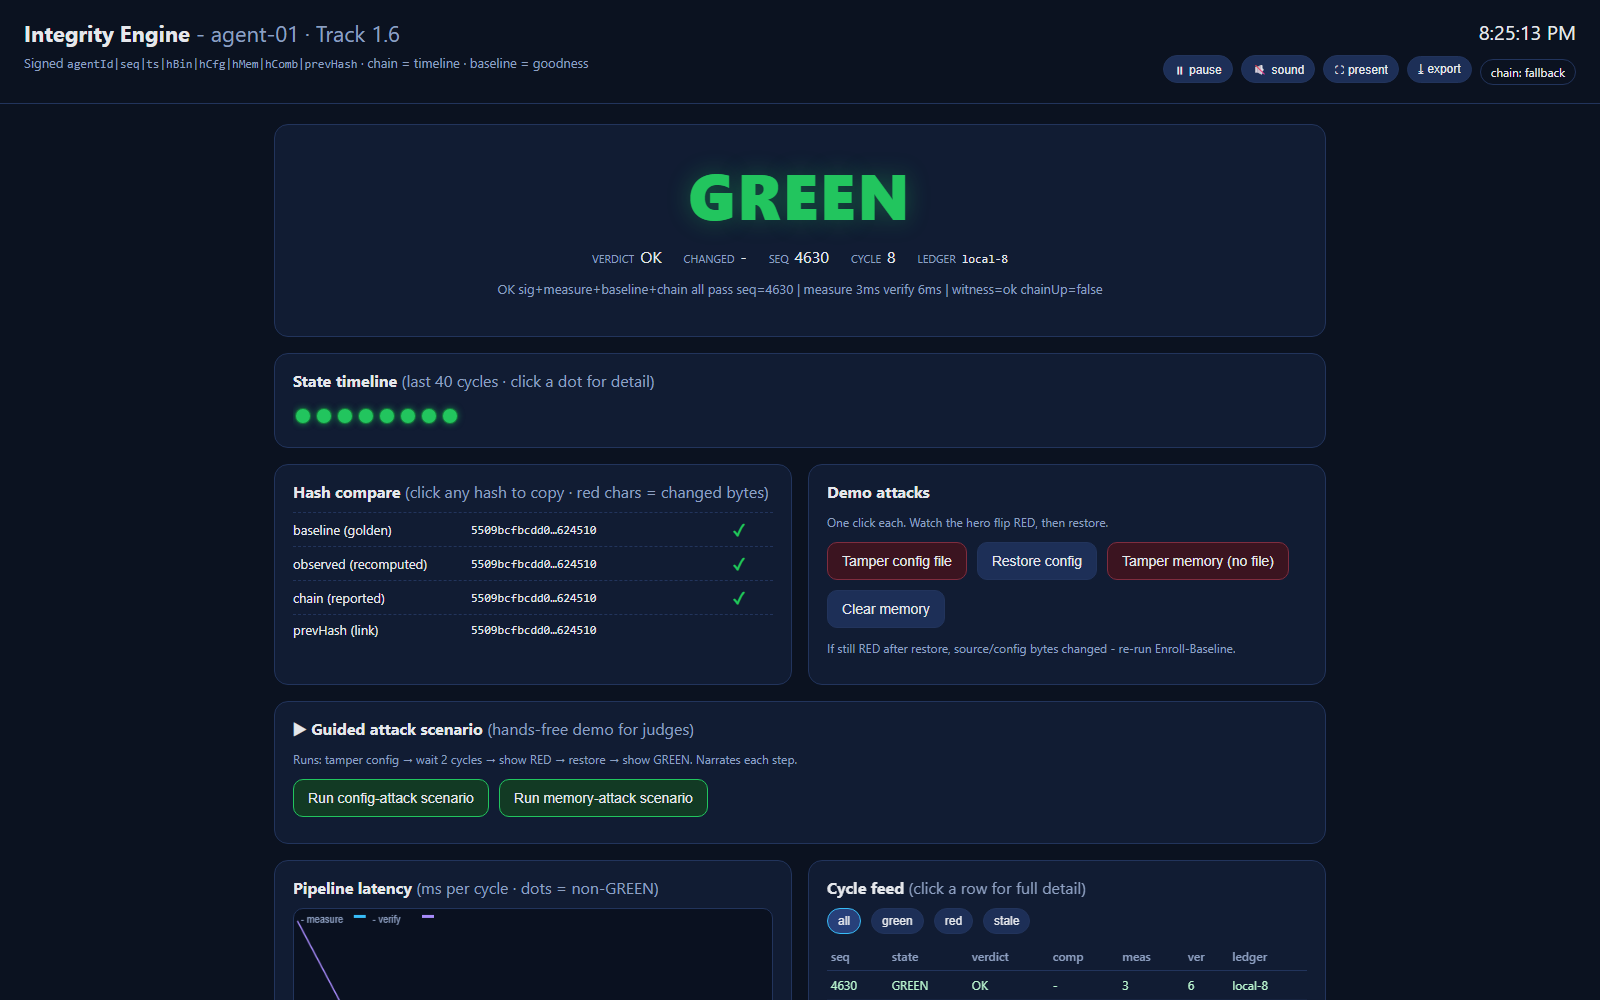
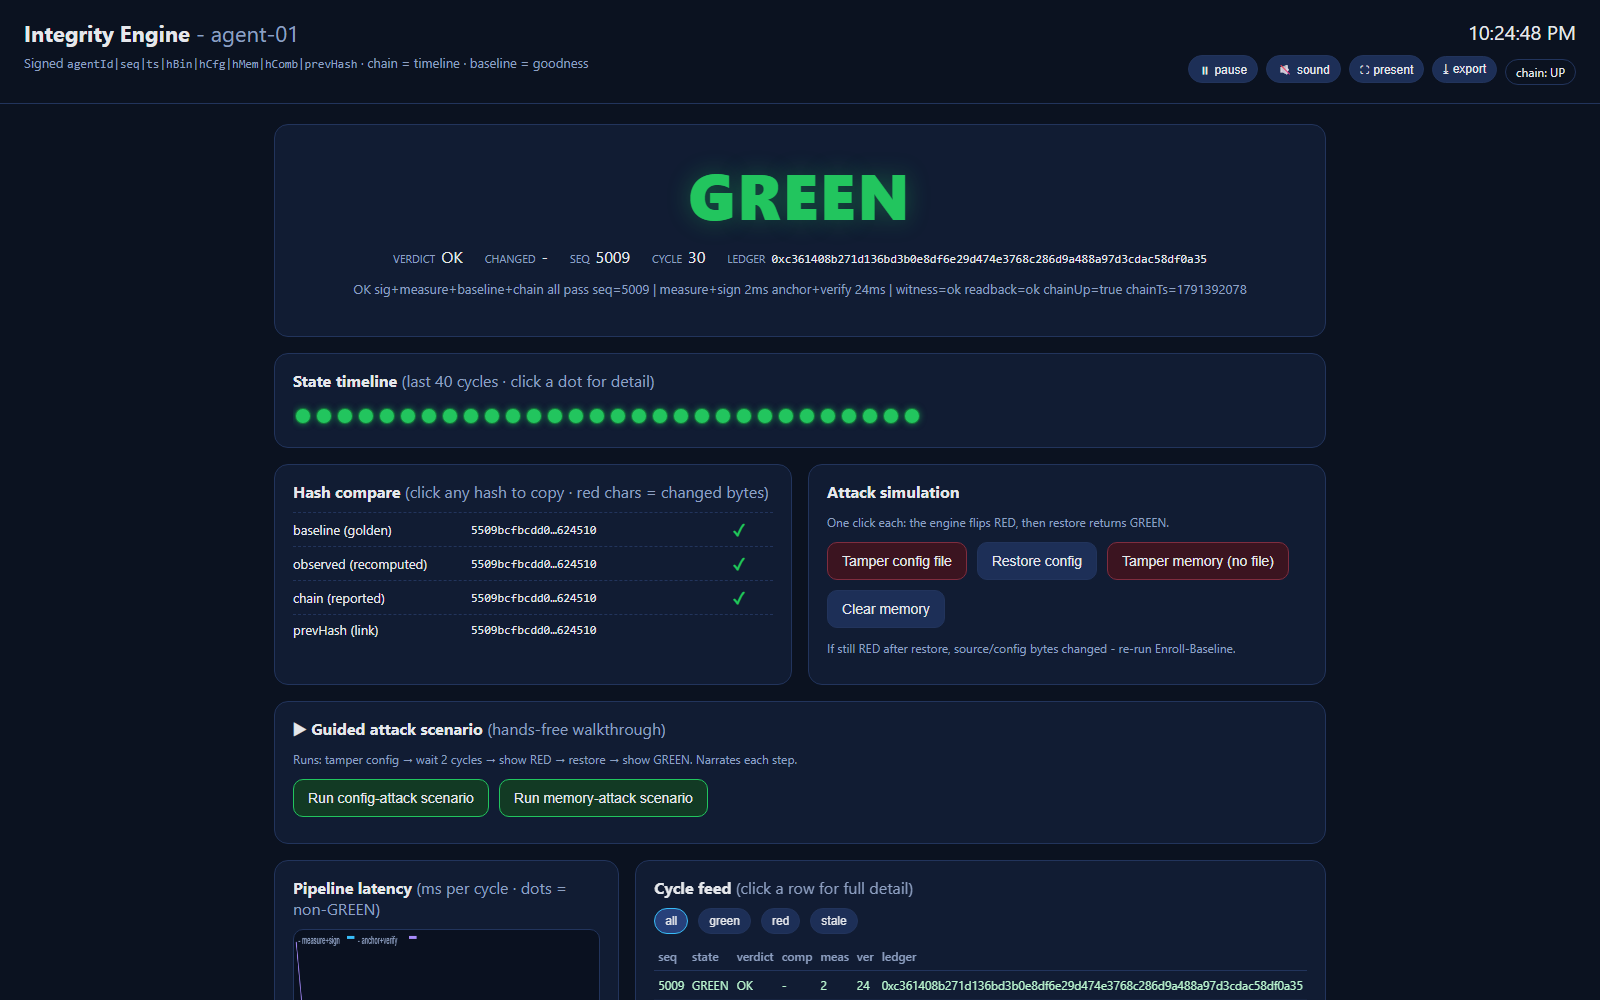
docs strip competition framing, production positioning - delete PITCH, retake screenshots

diff --git a/web/index.html b/web/index.html
@@ -9,7 +9,7 @@
 <body>
 <header class="top">
   <div>
-    <h1>Integrity Engine <span class="dim">- agent-01 · Track 1.6</span></h1>
+    <h1>Integrity Engine <span class="dim">- agent-01</span></h1>
     <p class="sub">Signed <code>agentId|seq|ts|hBin|hCfg|hMem|hComb|prevHash</code> · chain = timeline · baseline = goodness</p>
   </div>
   <div class="top-right">
@@ -52,8 +52,8 @@
       <p class="hint" id="copyMsg"></p>
     </div>
     <div class="card">
-      <h2>Demo attacks</h2>
-      <p class="hint">One click each. Watch the hero flip RED, then restore.</p>
+      <h2>Attack simulation</h2>
+      <p class="hint">One click each: the engine flips RED, then restore returns GREEN.</p>
       <div class="btns">
         <button id="bTamperCfg" class="danger">Tamper config file</button>
         <button id="bRestoreCfg">Restore config</button>
@@ -66,7 +66,7 @@
   </section>
 
   <section class="card scenario">
-    <h2>▶ Guided attack scenario <span class="dim">(hands-free demo for judges)</span></h2>
+    <h2>▶ Guided attack scenario <span class="dim">(hands-free walkthrough)</span></h2>
     <p class="hint">Runs: tamper config → wait 2 cycles → show RED → restore → show GREEN. Narrates each step.</p>
     <div class="btns">
       <button id="bScenario" class="primary">Run config-attack scenario</button>
@@ -131,7 +131,7 @@
   </section>
 
   <footer>
-    <p>Open limits, stated first: Checker can lie without TPM/TEE · Boss re-read is demo-only (remote has signed measurement only) · memory = whitelisted map · <code>ledger.jsonl</code> is fallback, chain event log authoritative.</p>
+    <p>Open limits, stated first: Checker can lie without TPM/TEE · Boss re-read is single-host only (remote uses the signed measurement only) · memory = whitelisted map · <code>ledger.jsonl</code> is fallback, chain event log authoritative.</p>
   </footer>
 </main>
 <script src="/app.js"></script>

diff --git a/java/src/integrity/verify/Verifier.java b/java/src/integrity/verify/Verifier.java
@@ -13,7 +13,7 @@ import java.util.HashMap;
 import java.util.Map;
 
 /**
- * Judge-proof verifier on frozen contract.
+ * Independent verifier on frozen contract.
  * Loads full golden baseline (hBin/hCfg/hMem/hComb) once, immutable.
  * Boss independently re-measures, then:
  *  0 key on disk == key pinned at enrollment (catches key-swap attacks)
@@ -100,7 +100,7 @@ public final class Verifier {
                 pinned, pinContract, pinChainId);
     }
 
-    /** Full check. re = Boss independent measurement (demo only - remote has signed measurement only), m = reported. */
+    /** Full check. re = Boss independent measurement (single-host only - remote has signed measurement only), m = reported. */
     public Verdict check(Measurer.Measurement re, SignedMeasurement m) throws Exception {
         return check(re, m, m.ts(), false, null);
     }
@@ -152,7 +152,7 @@ public final class Verifier {
             return new Verdict(Reason.PREV_HASH_BREAK, expectedPrev, m.prevHash(), "genesis prev must be baseline hComb or zeros");
 
         // The report is authentic, fresh, monotonic and linked: it enters the
-        // chain NOW. Verdicts below judge state, not linkage, so a mid-cycle
+        // chain NOW. Verdicts below evaluate state, not linkage, so a mid-cycle
         // change (MEASURE_MISMATCH_*) or sustained tamper stays itself instead
         // of flipping every later cycle into PREV_HASH_BREAK. Matches Main's
         // per-cycle cursor advance and the contract's prevHash linkage rule.

diff --git a/java/src/integrity/Main.java b/java/src/integrity/Main.java
@@ -24,7 +24,7 @@ import java.security.KeyPair;
  * Item 5: 1s watchdog flips dashboard to STALE even with zero requests.
  * Item 14: seq persisted in config/seq.dat.
  * Item 3: keys in keys/ (outside writable config/), see KeyStore.
- * Item 12: Boss re-read is "independent recompute, demo only" - remote has signed measurement only.
+ * Item 12: Boss re-read is "independent recompute, single-host only" - remote has signed measurement only.
  */
 public final class Main {
     static final long INTERVAL_MS = 5000;
@@ -43,7 +43,7 @@ public final class Main {
         Verifier.Baseline baseline = Verifier.loadBaseline(base);
         System.out.println("BASELINE hComb=" + baseline.hComb());
         if (baseline.publicKey().isEmpty())
-            System.out.println("KEY PIN: not pinned (demo mode, fresh-clone friendly). Run Enroller to pin the boss-trusted key and catch key swaps as KEY_MISMATCH.");
+            System.out.println("KEY PIN: not pinned (fresh-clone friendly). Run Enroller to pin the boss-trusted key and catch key swaps as KEY_MISMATCH.");
         else
             System.out.println("KEY PIN: pinned " + baseline.publicKey().substring(0, Math.min(16, baseline.publicKey().length())) + "... (key swap -> KEY_MISMATCH)");
         if (baseline.chainContract().isEmpty())

diff --git a/java/src/integrity/batch/BatchBench.java b/java/src/integrity/batch/BatchBench.java
@@ -5,7 +5,7 @@ import java.security.MessageDigest;
 import java.util.*;
 
 /**
- * Benchmark for pitch: builds 10k-leaf tree, proves + verifies one leaf.
+ * Benchmark for the batch path: builds 10k-leaf tree, proves + verifies one leaf.
  * Run: java -cp out integrity.batch.BatchBench
  * Math printed: naive TPS vs batched TPS + build/verify ms.
  */

diff --git a/README.md b/README.md
@@ -42,7 +42,7 @@
 
 ## What is This?
 
-**Decentralized Runtime Integrity Engine** is a verifiable integrity framework for remote agents, built for Technorazz 2026, Track 1.6.
+**Decentralized Runtime Integrity Engine** is a verifiable integrity framework for remote agents: on-chain anchored tamper detection with golden-baseline verification.
 
 Remote agents (AI bots, edge workers, enterprise daemons) run where you can't see them. An attacker with file access can patch the binary, edit `config.json`, or flip an in-memory limit. We don't prevent the edit - we **prove it within one 5s interval plus ~4ms pipeline average (~24ms worst, measured over 20 trials), and flag STALE if no fresh anchor arrives after 12s.**
 
@@ -72,7 +72,7 @@ flowchart LR
   end
 
   subgraph BOSS["Boss / Verifier (trusted)"]
-    RE["re-measure (demo)"] --> V["Verifier - 6 checks<br/>comb / seal / link /<br/>recompute / baseline / freshness"]
+    RE["re-measure (single host)"] --> V["Verifier - 6 checks<br/>comb / seal / link /<br/>recompute / baseline / freshness"]
     BASE[("baseline.json<br/>golden, enrolled Phase 0")] --> V
   end
 
@@ -153,7 +153,7 @@ stateDiagram-v2
 | Memory flip via endpoint | RED POLICY_MEM_CHANGED comp=memory |
 | Lying Checker (anchor old) | RED MEASURE_MISMATCH_* comp=that component |
 | Replay / reorder | RED STALE_REPLAY (seq/ts/prevHash) |
-| Heartbeat stalled (locked/hung files) | RED CYCLE_ERR, then STALE after 12s via 1s watchdog. Demo: `scripts/demo-stale.ps1` |
+| Heartbeat stalled (locked/hung files) | RED CYCLE_ERR, then STALE after 12s via 1s watchdog. Script: `scripts/demo-stale.ps1` |
 | Kill the engine process | Page honestly shows "engine unreachable" (no stale green light) |
 | Swap in a new key pair | RED KEY_MISMATCH comp=key (when baseline is pinned via Enroller) |
 | Chain stores a different record than submitted | RED CHAIN_MISMATCH comp=chain (`getLatest` readback after each anchor) |
@@ -167,13 +167,13 @@ stateDiagram-v2
 * **Deterministic Memory Hashing** - no RAM dumps (too noisy). Only `mode, limit, version` serialized via sorted `TreeMap` to `k=v;k=v` canonical form, then hashed. Same state always gives the same hash, no false positives.
 * **Golden Baseline Enrollment** - Phase 0 runs once in a clean room. `Enroller.java` captures `hBin/hCfg/hMem/hComb` into `config/baseline.json`, the Boss's trusted store, never overwritten from chain. Legit upgrades need a re-enrollment. It also pins the boss-trusted key and, when `config/chain.json` exists, the contract address + chain id.
 * **Wax-Seal Signatures (frozen)** - payload `agentId|seq|ts|hBin|hCfg|hMem|hComb|prevHash`, Ed25519 via `java.security` (no libs). All three component hashes covered, so the Boss can blame binary vs config vs memory. `hComb = SHA256(raw32||raw32||raw32)` (raw bytes, never hex-concat). `seq` + `prevHash` stop replay and forks.
-* **Real On-Chain Anchoring (chain authoritative, file fallback)** - a real `anchor()` tx every cycle when `config/chain.json` + node are up (`ledgerRef` = tx hash, `block.timestamp` authoritative). The baseline can pin contract + chainId at enrollment; mismatch refuses chain mode (ledger fallback). `ledger.jsonl` is always appended so the demo survives node death. History lives in `Anchored` events. Ed25519 verified off-chain (EVM has none).
+* **Real On-Chain Anchoring (chain authoritative, file fallback)** - a real `anchor()` tx every cycle when `config/chain.json` + node are up (`ledgerRef` = tx hash, `block.timestamp` authoritative). The baseline can pin contract + chainId at enrollment; mismatch refuses chain mode (ledger fallback). `ledger.jsonl` is always appended so the engine survives node death. History lives in `Anchored` events. Ed25519 verified off-chain (EVM has none).
 * **6-Check Verifier with per-component blame** - GREEN only if: `hComb == SHA256(raws)`, full seal valid, `prevHash` chains, `H_re == reported` per component (catches a lying Checker), `reported == baseline` per component (catches edits), and `ts` fresh + `seq` monotonic. RED names the reason and the component.
 * **Key Pinning + Witness Audit** - enrollment pins the agent public key into `baseline.json` (a swapped key pair fails as `KEY_MISMATCH`); every verdict is counter-signed by a separate boss key into hash-chained `witness.jsonl`. A stolen agent key can forge agent signatures, but not the witness trail.
 * **Live Dashboard** - JDK `HttpServer` on `:8080`, zero deps: big status light, timeline, donut, attack buttons, hash diff view, and the witness audit panel (live chain verification, entry count, head hash, last entry). Auto-refreshes every 2s.
-* **Live Tamper Demo** - config edit flips `POLICY_CFG_CHANGED` next cycle; the memory endpoint flips `POLICY_MEM_CHANGED` with no file edit; restore returns GREEN with no restart. Easiest path: the dashboard's Tamper/Restore buttons.
+* **Live Tamper Detection** - config edit flips `POLICY_CFG_CHANGED` next cycle; the memory endpoint flips `POLICY_MEM_CHANGED` with no file edit; restore returns GREEN with no restart. Easiest path: the dashboard's Tamper/Restore buttons.
 * **Stale / Replay Guard** - rejects timestamps older than 12s (chain `block.timestamp` when up) and reused/rewound `seq`; `seq` persisted in `config/seq.dat` so restarts don't self-flag. A stalled heartbeat shows `CYCLE_ERR` with the cause first, then `STALE` after 12s (watchdog wins, no flicker).
-* **Zero External Java Deps** - pure JDK 17+ (tested on 24). `javac` + `java` is enough: no Maven, Gradle, Spring, or web3j download. Perfect for hackathon wifi.
+* **Zero External Java Deps** - pure JDK 17+ (tested on 24). `javac` + `java` is enough: no Maven, Gradle, Spring, or web3j download. Build and run fully offline.
 * **Scale: Merkle Batching** - collect a window of `hComb`, anchor one root/min, keep per-device proofs. 10k-leaf root in ~93ms. See `docs/SCALING.md`.
 * **Measured Performance** - 20 trials: pipeline avg 4ms (measure 0.6, sign 1.6, verify 2.0), worst 24ms. Detection = next 5s interval + pipeline. See `docs/BENCHMARKS.md`.
 
@@ -225,7 +225,7 @@ stateDiagram-v2
 │   └── baseline.json           # golden baseline, Boss trusted store
 ├── web/                        # dashboard UI (app.js / index.html / styles.css)
 ├── scripts/                    # run.ps1, demo-tamper.ps1, demo-stale.ps1, redeploy.ps1
-├── docs/                       # PITCH, BENCHMARKS, THREAT_MODEL, SCALING, ...
+├── docs/                       # BENCHMARKS, THREAT_MODEL, SCALING, ...
 └── README.md
 ```
 
@@ -253,7 +253,7 @@ java -cp out integrity.Main
 
 Open <http://localhost:8080> - you should see GREEN flowing with cycle + tx.
 
-### 3. Optional: real chain anchoring (recommended for judges)
+### 3. Optional: real chain anchoring (recommended)
 
 ```bash
 cd contract
@@ -265,13 +265,13 @@ npm run deploy        # writes ../config/chain.json (rpcUrl, contractAddr, from,
 
 Restart the engine after deploy - it enrolls once on-chain (`anchorCount==0`), then every heartbeat is a real `anchor()` tx (`chainUp=true`, `ledgerRef` = tx hash). If the chain is down, the engine still runs with `chainUp=false` + `ledger.jsonl`.
 
-### 4. Tamper Live (the demo)
+### 4. Tamper Live
 
 1. Open `config/agent-config.json`, change `"threshold": 100` to `999`, save.
 2. Next cycle flips RED: `POLICY_CFG_CHANGED comp=config` (sustained). Restore to `100` and GREEN returns next cycle. Memory variant: `/tamper/memory?limit=999` -> `POLICY_MEM_CHANGED` with no file edit.
 3. Byte-safety: prefer the dashboard's Tamper/Restore buttons (they never touch line endings). Stuck RED after a manual save? `git checkout -- config/agent-config.json` restores byte-identical bytes -> GREEN next cycle.
 
-Show judges `baseline.json` on screen before step 1 - that proves what good is.
+Keep `baseline.json` in view before step 1 - it is the golden definition of good.
 
 ### Re-baseline (only when you intentionally changed source/config)
 
@@ -362,18 +362,18 @@ The engine proves tampering when the agent is honest or when we can re-measure, 
 
 What the software layer does close: key swaps (`KEY_MISMATCH`, enforced by the public key pinned into `baseline.json` at enrollment) and forgeable history (boss-signed, hash-chained `witness.jsonl` that a stolen agent key cannot rewrite).
 
-A compromised Checker can sign false hashes with a stolen key; TPM/TEE is the path to closing that. In split deployments, keep the witness key on the Boss host only. This single-box demo keeps both keys on the same machine.
+A compromised Checker can sign false hashes with a stolen key; TPM/TEE is the path to closing that. In split deployments, keep the witness key on the Boss host only. This single-box deployment keeps both keys on the same machine.
 
-### Demo simplifications
+### Simplifications
 
-* **Boss file re-read** works because the demo runs on a single machine; a remote verifier would use only the signed measurement, baseline, and chain.
+* **Boss file re-read** works because this runs on a single machine; a remote verifier would use only the signed measurement, baseline, and chain.
 * **Memory hashing** covers `AgentState{mode,limit,version}` (a whitelist), not the full heap, which never stabilizes across runs.
 * **`ledger.jsonl`** is a tamper-evident fallback; the chain event log is authoritative.
 
-### Stack and demo scope
+### Stack and scope
 
 * **JDK-only** (`javac`/`java`, no Maven/Spring/Gradle/Javalin/web3j wrapper required).
-* **Binary tamper** is secondary on Windows (locked JAR / classes directory); the config edit and memory endpoint are the live attack demos.
+* **Binary tamper** is secondary on Windows (locked JAR / classes directory); the config edit and memory endpoint are the live attack paths.
 * **File reads** retry for 200ms; a missing file counts as tamper.
 
 ### Stretch goals
@@ -384,7 +384,7 @@ Split the Checker and Boss onto separate hosts, hold keys in a TPM/HSM, keep the
 
 ## Contributing
 
-Logical commits only, one feature = one commit. No amend, no force-push. Never commit `keys/*.pkcs8`, `keys/*.x509`, or real `*.key` files - demo keys generate once into ignored `keys/`. CI must pass before merge (see [Testing & CI](#testing--ci)).
+Logical commits only, one feature = one commit. No amend, no force-push. Never commit `keys/*.pkcs8`, `keys/*.x509`, or real `*.key` files - test keys generate once into ignored `keys/`. CI must pass before merge (see [Testing & CI](#testing--ci)).
 
 ```bash
 git checkout -b feat/amazing-check
@@ -402,7 +402,7 @@ Distributed under the **MIT License**.
 
 ## Acknowledgements
 
-**Hardhat** for the local chain + deploy tooling, the **Java JDK** (`MessageDigest`, `Ed25519`, `HttpClient`, `HttpServer`) for a zero-dep MVP, and the **Technorazz team** for the Track 1.6 problem statement.
+**Hardhat** for the local chain + deploy tooling and the **Java JDK** (`MessageDigest`, `Ed25519`, `HttpClient`, `HttpServer`) for a zero-dependency build.
 
 ---
 

diff --git a/docs/THREAT_MODEL.md b/docs/THREAT_MODEL.md
@@ -1,4 +1,4 @@
-# Threat Model - Stated Openly (say it before judges do)
+# Threat Model - Stated Openly
 
 ## What we assume (and admit)
 1. **Item 11 - Compromised Checker can sign lies.** Checker runs on the same box as Worker
@@ -8,9 +8,9 @@
    (a *replacement* key pair fails as `KEY_MISMATCH` instead of self-verifying), and every
    verdict is counter-signed into hash-chained `witness.jsonl` by a separate boss key, so a
    stolen agent key cannot rewrite the audit trail. A live stolen key still wins; hardware needed.
-2. **Item 12 - Boss re-read is demo only.** One-laptop demo lets Boss independently re-read files.
-   Real remote verifier has the signed measurement + baseline + chain only. Labeled
-   "independent recompute, demo only" in code and dashboard.
+2. **Item 12 - Boss re-read is single-host only.** A single-machine deployment lets the Boss
+   independently re-read files. A real remote verifier has the signed measurement + baseline +
+   chain only. Labeled "independent recompute, single-host only" in code and dashboard.
 3. **Item 13 - "Memory" = whitelisted map.** `AgentState{mode,limit,version}` hashed via sorted
    TreeMap, NOT full heap (GC/counters/ASLR never stabilize). Memory attack simulated via
    `/tamper/memory?limit=999` endpoint + file-config attack. Stated in README + UI.
@@ -18,7 +18,7 @@
    perms where available; Windows ACL note. Assumption documented in `KeyStore.java`.
 5. **Item 10 - File ledger is fallback, tamper-evident not tamper-proof.** `ledger.jsonl` can be
    rewritten with recomputed hashes. Verifier memory `headHash()` + `prevHash` linkage catches
-   rewrites within a run; across restarts it is a demo fallback. Chain event log is authoritative.
+   rewrites within a run; across restarts it is only a local fallback. Chain event log is authoritative.
    Labeled FALLBACK in dashboard + docs.
 
 ## What attacker CAN / CANNOT do

diff --git a/docs/SCALING.md b/docs/SCALING.md
@@ -6,14 +6,15 @@ Anchoring every 5s per device on-chain does not scale.
 
 ## Fix: batch (implemented)
 Collect all devices' `hComb` for a window, build one Merkle tree, anchor **only the root once per minute**.
-Each device keeps its Merkle proof (`BatchCollector.proofs()`). Cost drops 120,000x, any single
+Each device receives its Merkle proof for that window (`BatchCollector.proofs()`). Cost drops 120,000x, any single
 measurement still provable via `MerkleTree.verify(leaf, proof, index, root)`.
 
+- Leaf model: one leaf = raw32(hComb), one leaf per device per window; a device's proof stays valid until the next root replaces it.
 - Leaf = raw32(hComb). Parent = SHA256(leftRaw||rightRaw). Odd duplicated. Hex lowercase.
-- Single-device demo keeps 5s heartbeat as today; batch path runs alongside for scale story.
+- Single-device mode keeps the 5s heartbeat as today; batch path runs alongside for fleet scale.
 - 12-cycle window (60s @5s): root + 12 proofs, 1 tx/min.
 - 10k-device window: root in 93ms, proof 44ms, verify ~0ms, proofLen 14.
 
 ## Numbers
 naive 2000 TPS vs batched 0.0167 TPS = **120,000x reduction**.
-Pitch: "Per-device heartbeat for demo, Merkle root per minute for fleet."
+Model: per-device heartbeat for a single agent, Merkle root per minute for a fleet.

diff --git a/docs/BENCHMARKS.md b/docs/BENCHMARKS.md
@@ -15,7 +15,8 @@ PIPELINE avg=4ms worst=24ms
 ```
 - Typical detection after file edit: **next cycle, ~5.0s + ~4ms**.
 - Worst observed: **5024ms** (5s interval + 24ms pipeline).
-- STALE (heartbeat stalled, e.g. locked/hung files): watchdog 1s tick, dashboard STALE after **12s** with no fresh anchor. Demo: scripts/demo-stale.ps1.
+- On-chain anchoring (RPC send + receipt wait + readback) sits outside these pipeline spans; the dashboard's `anchor+verify` timing includes it.
+- STALE (heartbeat stalled, e.g. locked/hung files): watchdog 1s tick, dashboard STALE after **12s** with no fresh anchor. Script: scripts/demo-stale.ps1.
 
 ## Merkle batch (scale fix)
 ```
@@ -25,5 +26,5 @@ naive=2000.0 TPS vs batched=0.0167 TPS reduction=120000x
 ```
 Run: `java -cp out integrity.batch.BatchBench 10000`, `java -cp out integrity.batch.Bench20`.
 
-## What to tell judges
-"5s heartbeat, ~4ms pipeline avg, ~24ms worst, STALE after 12s. Batch path: 10k-device window builds in 93ms, 1 root/min."
+## Headline numbers
+5s heartbeat, ~4ms pipeline avg, ~24ms worst, STALE after 12s. Batch path: 10k-device window builds in 93ms, 1 root/min.

diff --git a/docs/VERIFICATION_LOGIC.md b/docs/VERIFICATION_LOGIC.md
@@ -45,5 +45,5 @@ Chain cursor (`expectedPrev`, `lastSeq`) advances on OK **and** on POLICY_* so s
 | Replay old payload | RED STALE_REPLAY |
 | Drop cycle / fork prev | RED PREV_HASH_BREAK |
 
-## Pitch line
+## One-liner
 "Sig covers all three hashes plus seq/ts/prevHash. Boss tells binary vs config vs memory, chain proves order, baseline proves good."
